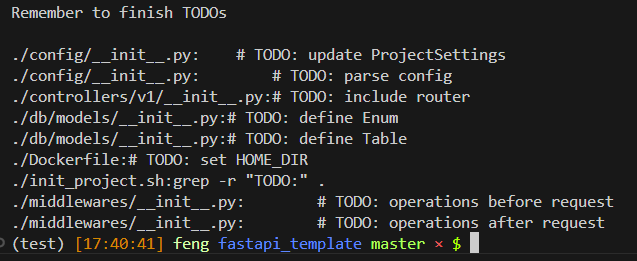
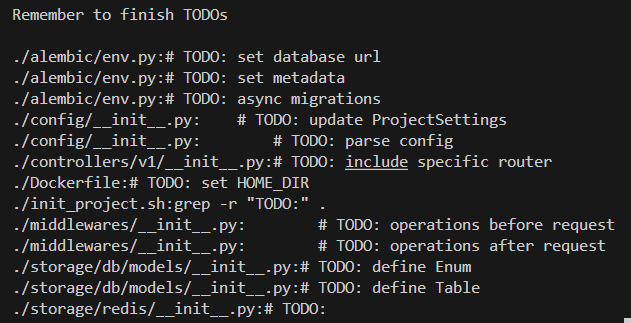
feat: add alembic
feat: add AUTO_UPDATE
feat: add DatabaseConnector

Changed region(s): [[0.0, 0.1533, 0.9937, 1.0], [0.0, 0.0, 0.3613, 0.092], [0.9635, 0.9808, 1.0, 1.0]]

diff --git a/alembic/env.py b/alembic/env.py
@@ -1,0 +1,119 @@
+from logging.config import fileConfig
+
+from sqlalchemy import engine_from_config
+from sqlalchemy import pool
+
+from alembic import context
+
+# this is the Alembic Config object, which provides
+# access to the values within the .ini file in use.
+config = context.config
+
+# Interpret the config file for Python logging.
+# This line sets up loggers basically.
+if config.config_file_name is not None:
+    fileConfig(config.config_file_name)
+
+# TODO: set database url
+from config import settings
+config.set_main_option("sqlalchemy.url", settings.DATABASE_URL)
+
+# add your model's MetaData object here
+# for 'autogenerate' support
+# from myapp import mymodel
+# target_metadata = mymodel.Base.metadata
+
+# TODO: set metadata
+from storage.db.models import SQLModel
+target_metadata = SQLModel.metadata
+
+# other values from the config, defined by the needs of env.py,
+# can be acquired:
+# my_important_option = config.get_main_option("my_important_option")
+# ... etc.
+
+
+def run_migrations_offline() -> None:
+    """Run migrations in 'offline' mode.
+
+    This configures the context with just a URL
+    and not an Engine, though an Engine is acceptable
+    here as well.  By skipping the Engine creation
+    we don't even need a DBAPI to be available.
+
+    Calls to context.execute() here emit the given string to the
+    script output.
+
+    """
+    url = config.get_main_option("sqlalchemy.url")
+    context.configure(
+        url=url,
+        target_metadata=target_metadata,
+        literal_binds=True,
+        dialect_opts={"paramstyle": "named"},
+    )
+
+    with context.begin_transaction():
+        context.run_migrations()
+
+
+def run_migrations_online() -> None:
+    """Run migrations in 'online' mode.
+
+    In this scenario we need to create an Engine
+    and associate a connection with the context.
+
+    """
+    connectable = engine_from_config(
+        config.get_section(config.config_ini_section, {}),
+        prefix="sqlalchemy.",
+        poolclass=pool.NullPool,
+    )
+
+    with connectable.connect() as connection:
+        context.configure(
+            connection=connection, target_metadata=target_metadata
+        )
+
+        with context.begin_transaction():
+            context.run_migrations()
+
+# TODO: async migrations
+# import asyncio
+# from sqlalchemy.engine import Connection
+# from sqlalchemy.ext.asyncio import async_engine_from_config
+# def do_run_migrations(connection: Connection) -> None:
+#     context.configure(connection=connection, target_metadata=target_metadata)
+
+#     with context.begin_transaction():
+#         context.run_migrations()
+
+
+# async def run_async_migrations() -> None:
+#     """Run migrations in 'online' mode.
+
+#     In this scenario we need to create an Engine
+#     and associate a connection with the context.
+
+#     """
+#     connectable = async_engine_from_config(
+#         config.get_section(config.config_ini_section, {}),
+#         prefix="sqlalchemy.",
+#         poolclass=pool.NullPool,
+#     )
+
+#     async with connectable.connect() as connection:
+#         await connection.run_sync(do_run_migrations)
+
+#     await connectable.dispose()
+
+
+# def run_migrations_online() -> None:
+#     """Run migrations in 'online' mode."""
+#     asyncio.run(run_async_migrations())
+
+
+if context.is_offline_mode():
+    run_migrations_offline()
+else:
+    run_migrations_online()

diff --git a/storage/db/models/__init__.py b/storage/db/models/__init__.py
@@ -1,9 +1,21 @@
 from datetime import datetime
 from enum import Enum
+from typing import Annotated, TypeAlias
 from uuid import UUID, uuid4
 
-from pydantic import ConfigDict, field_validator, model_validator
+from pydantic import ConfigDict
 from sqlmodel import JSON, Column, Field, Index, SQLModel
+
+AUTO_UPDATE: TypeAlias = Annotated[
+    datetime | None,
+    Field(
+        default_factory=datetime.now,
+        nullable=False,
+        sa_column_kwargs={
+            "onupdate": datetime.now,
+        },
+    ),
+]
 
 
 # TODO: define Enum
@@ -15,9 +27,12 @@ class EnumField(str, Enum):
 # TODO: define Table
 class ExampleTable(SQLModel, table=True):
     model_config = ConfigDict(  # type: ignore
-        arbitrary_types_allowed=True,  # allow to define `dict` field
-        validate_assignment=True,  # validate field when create instance
+        # # 允许定义 `dict` 字段
+        arbitrary_types_allowed=True,
+        # 在创建实例时进行验证
+        validate_assignment=True,
     )
+
     __tablename__ = "example_tables"  # type: ignore[assignment]
     __table_args__ = (Index("user_email_idx", "email"),)
 
@@ -25,21 +40,10 @@ class ExampleTable(SQLModel, table=True):
 
     email: str = Field(max_length=255, unique=True, nullable=False)
 
+    # dict/list data
     table_info: dict = Field(sa_column=Column(JSON))
 
-    enum_field: str = Field()
+    enum_field: EnumField
 
     created_at: datetime | None = Field(default_factory=datetime.now)
-    updated_at: datetime | None = Field(default_factory=datetime.now)
-
-    @model_validator(mode="after")
-    def set_update(self):
-        self.model_config["validate_assignment"] = False  # type: ignore
-        self.updated_at = datetime.now()
-        self.model_config["validate_assignment"] = True  # type: ignore
-        return self
-
-    @field_validator("enum_field")
-    @classmethod
-    def validate_enum_field(cls, value) -> str:
-        return EnumField(value).value
+    updated_at: AUTO_UPDATE

diff --git a/storage/db/__init__.py b/storage/db/__init__.py
@@ -1,0 +1,51 @@
+from contextlib import contextmanager
+from contextvars import ContextVar, Token
+from uuid import uuid4
+
+from sqlalchemy import create_engine
+from sqlalchemy.orm import scoped_session, sessionmaker
+
+from config import settings
+
+_request_id_ctx_var: ContextVar[str | None] = ContextVar(
+    "_request_id_ctx_var", default=None
+)
+
+
+def get_session_id() -> str | None:
+    return _request_id_ctx_var.get()
+
+
+def set_session_id(value: str) -> Token:
+    return _request_id_ctx_var.set(value)
+
+
+def reset_session_id(token: Token):
+    _request_id_ctx_var.reset(token)
+
+
+class DatabaseConnector:
+    def __init__(self):
+        self.engine = create_engine(
+            settings.DATABASE_URL,
+            pool_size=100,
+            max_overflow=50,
+            pool_timeout=10,
+            pool_recycle=3600,
+            pool_pre_ping=True,
+        )
+
+        factory = sessionmaker(bind=self.engine)
+        self.session = scoped_session(factory, get_session_id)
+
+    @contextmanager
+    def session_ctx(self):
+        token = set_session_id(uuid4().hex)
+
+        yield self.session
+
+        self.session.remove()
+        reset_session_id(token)
+
+
+db = DatabaseConnector()

diff --git a/controllers/v1/__init__.py b/controllers/v1/__init__.py
@@ -4,5 +4,5 @@ from . import helloworld
 
 router = APIRouter()
 
-# TODO: include router
+# TODO: include specific router
 router.include_router(helloworld.router)

diff --git a/storage/redis/__init__.py b/storage/redis/__init__.py
@@ -1,0 +1,1 @@
+# TODO:

diff --git a/README.md b/README.md
@@ -1,6 +1,7 @@
 # FastAPI backend template
 
 ## Quick start
+
 1. 创建虚拟环境
     - 以 conda 为例:
 
